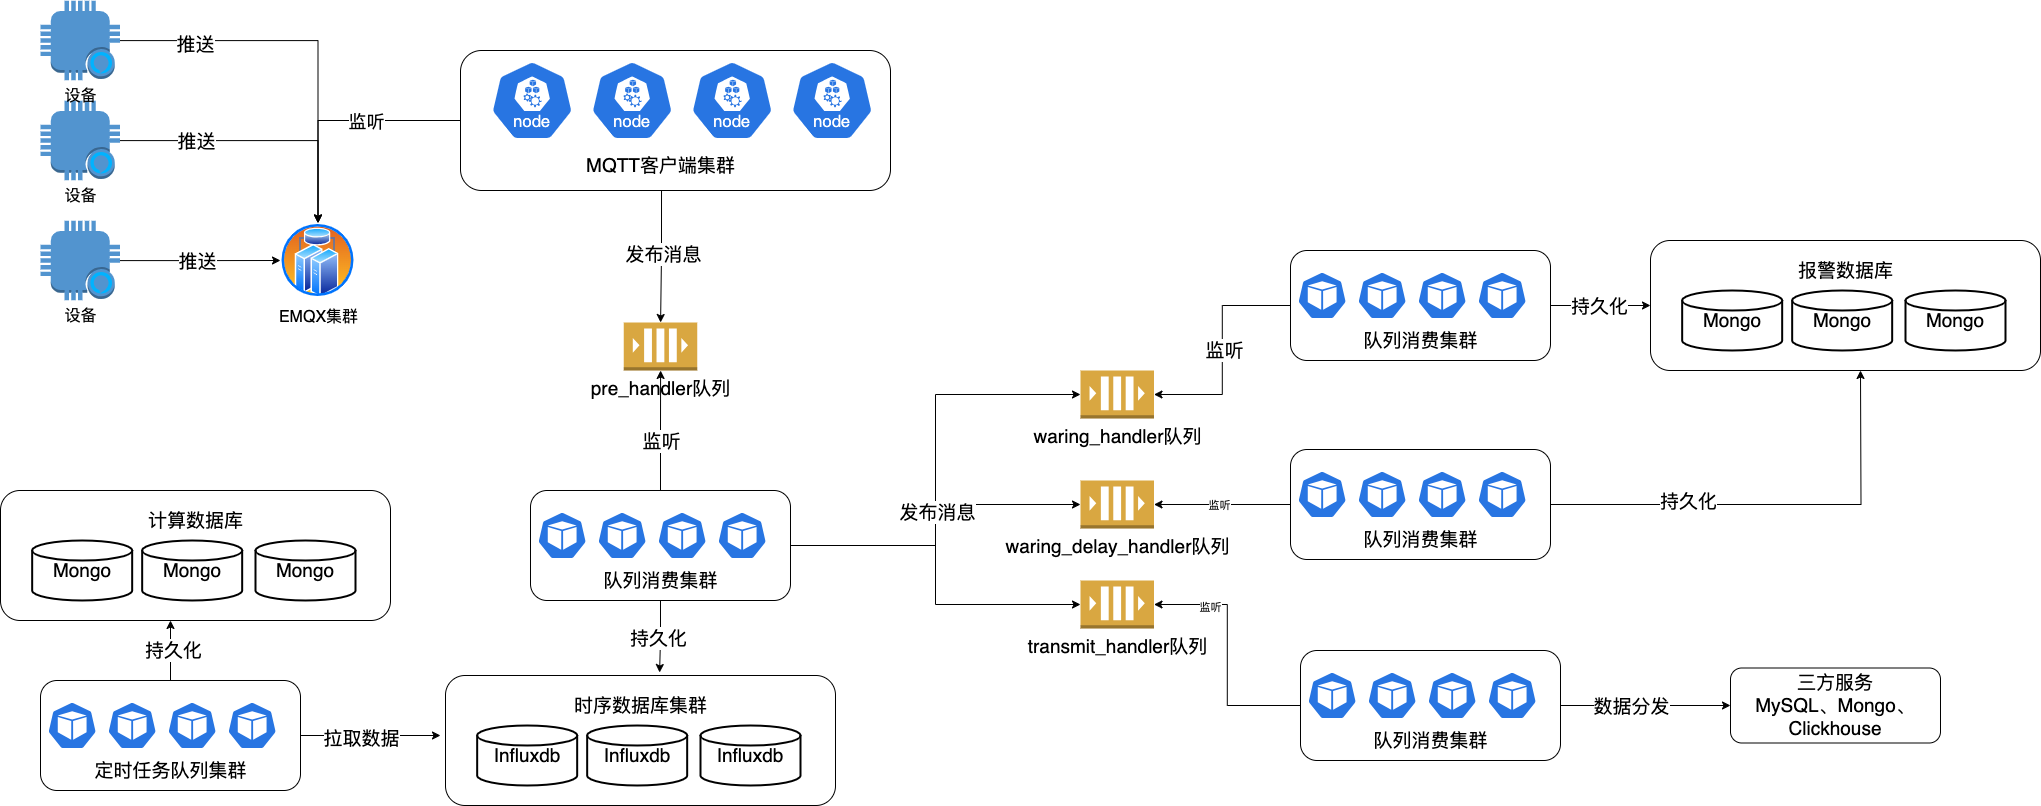
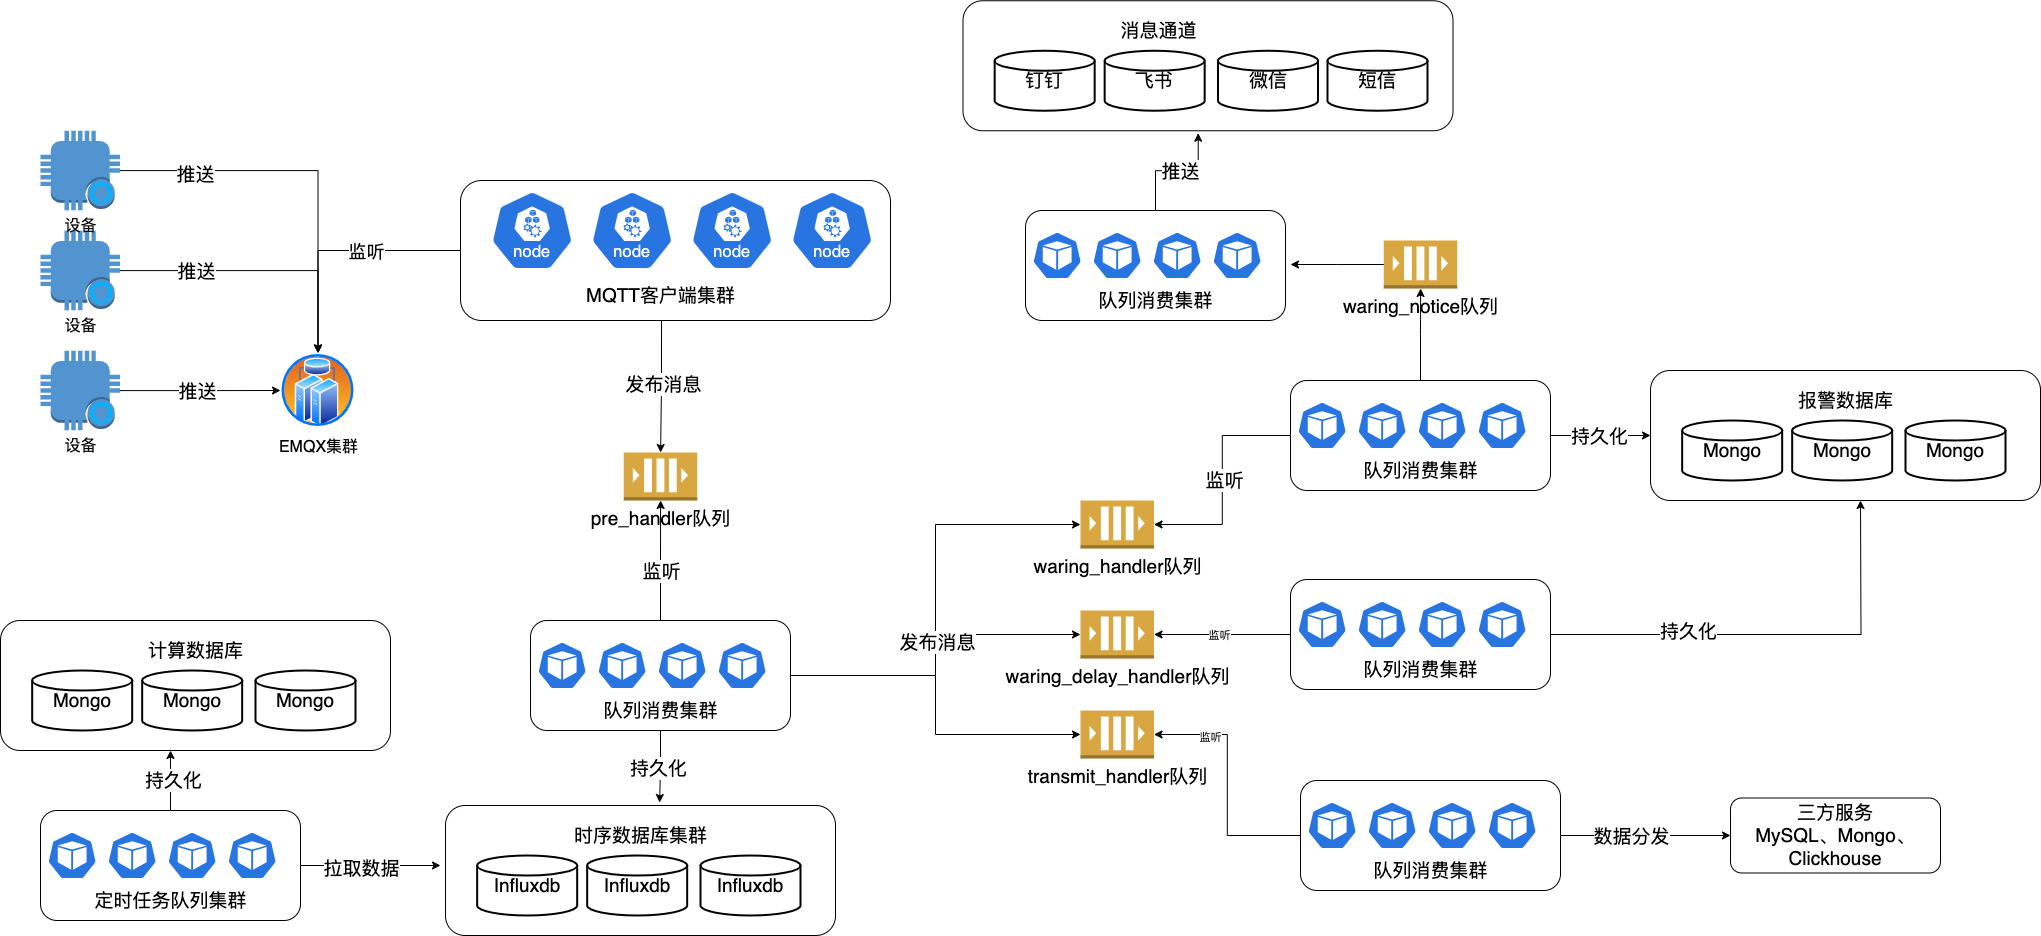
doc: readme

diff --git a/roadmap.md b/roadmap.md
@@ -23,6 +23,7 @@
   - [ ] Flink 
   - [ ] Kafka Stream 
   - [ ] Spark
+  - [ ] doris
 - AI 结合
   - [ ] 时序预测
 - 标准协议对接
